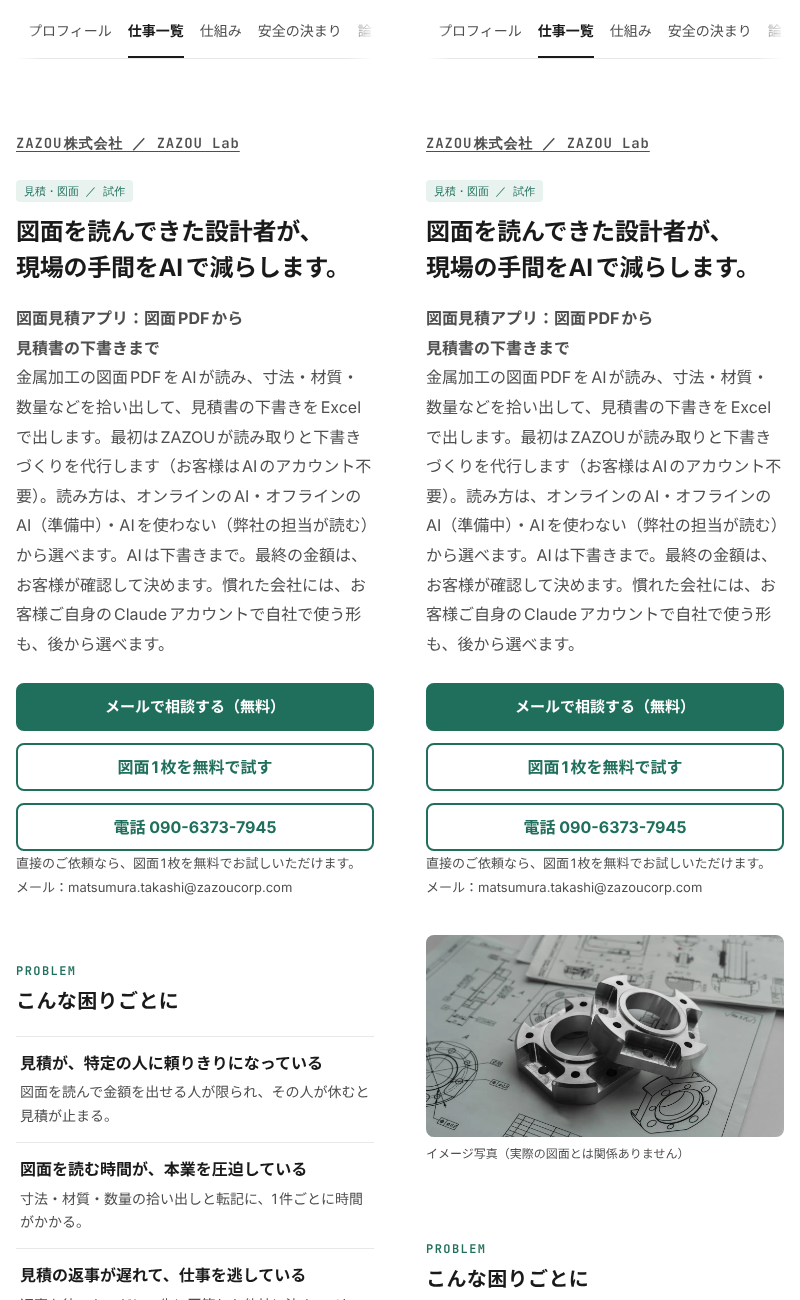
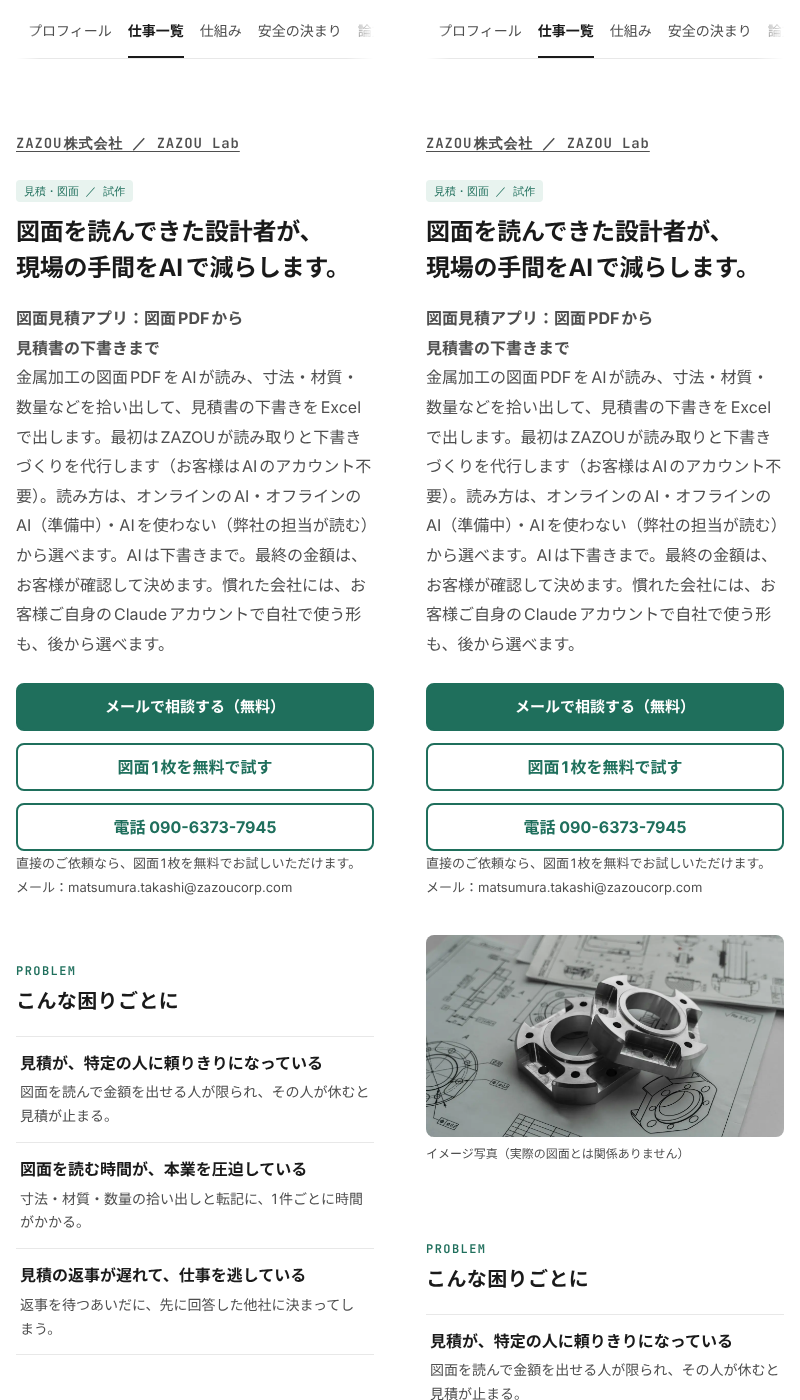
【確認用】写真の戻しを松村さんの指示どおりに：プロフィールの写真は外したまま、仕事一覧と図面見積の2枚だけ戻す
Claude-Session: https://claude.ai/code/session_01FoXnQUfRrmqzodteHHALDD

diff --git a/index.html b/index.html
@@ -75,7 +75,6 @@
 </nav>
 
 <section id="about" data-panel="about">
-<figure class="photo-slot"><img src="assets/img/photo/profile.webp" width="1400" height="1050" alt="ノートとパソコンが置かれた机" loading="lazy" decoding="async"><figcaption>イメージ写真（実際の仕事場の写真に差し替える予定）</figcaption></figure>
 <div class="sub-sec cols" id="skills">
   <h2><span class="en">Skills</span>できること</h2>
   <p class="note">仕事一覧と同じ分け方で並べています。「仕事の例」から、それぞれの見本に移れます。</p>

diff --git a/samples/sites/credits.md b/samples/sites/credits.md
@@ -7,7 +7,6 @@
 | サイト | ファイル | 用途 | 撮影者 | 写真ページ |
 |---|---|---|---|---|
 | portfolio | assets/img/photo/drawing.webp | 図面見積の紹介（イメージ写真の仮置き） | EnCata PD | https://unsplash.com/photos/two-metal-mechanical-parts-on-engineering-blueprints-SRqJ3eli-4I |
-| portfolio | assets/img/photo/profile.webp | トップ・プロフィール（イメージ写真の仮置き） | Nick Morrison | https://unsplash.com/photos/macbook-pro-near-white-open-book-FHnnjk1Yj7Y |
 | portfolio | assets/img/photo/works.webp | トップ・仕事一覧（イメージ写真の仮置き） | Cht Gsml | https://unsplash.com/photos/desk-with-calculator-charts-and-pencil-dspKrJYp644 |
 | architect | samples/sites/architect/img/drawings.webp | トップ本文（図面） | Jonathan Borba | https://unsplash.com/photos/rn00OVh0gEI |
 | architect | samples/sites/architect/img/hero-model.webp | トップのヒーロー（白い建築模型） | Fernando Andrade | https://unsplash.com/photos/a-model-of-a-house-sitting-on-top-of-a-book-UW4_FYJ_jRc |
